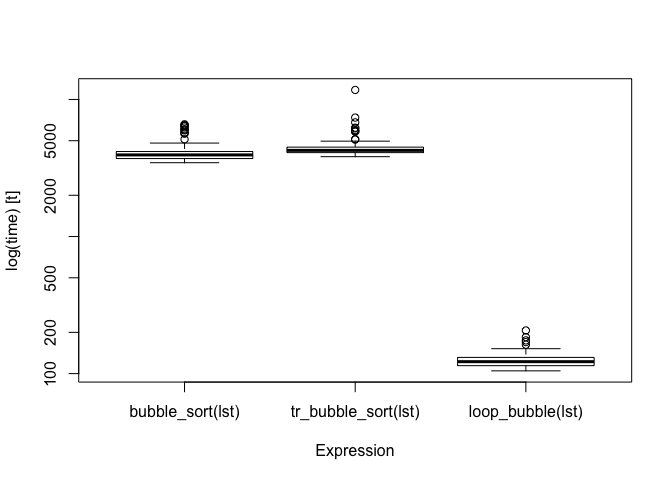
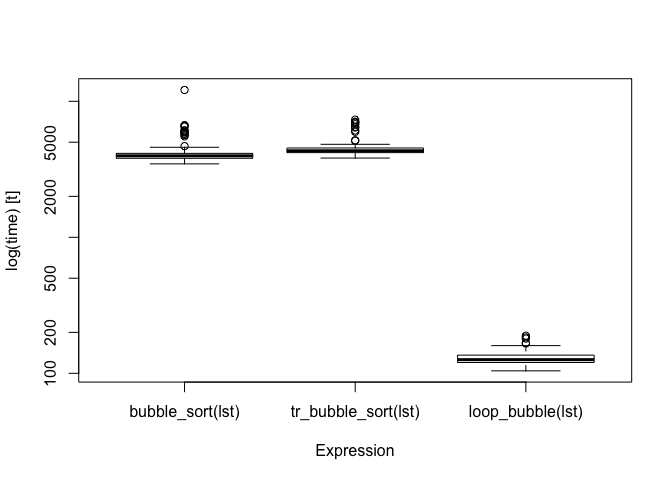
a little fixme

diff --git a/README.md b/README.md
@@ -140,9 +140,9 @@ bm <- microbenchmark::microbenchmark(factorial(n),
 bm
 #> Unit: microseconds
 #>               expr     min       lq      mean   median       uq      max
-#>       factorial(n) 502.353 592.2195 798.68890 676.7220 881.0735 4826.670
-#>    tr_factorial(n) 642.510 695.8220 773.12496 743.4500 776.2790 3023.561
-#>  loop_factorial(n)  48.411  50.1175  76.43362  51.3625  54.0435 2296.244
+#>       factorial(n) 510.170 548.6400 692.13391 593.0185 662.8700 5015.846
+#>    tr_factorial(n) 650.143 675.7145 741.53741 705.3390 732.8235 2867.557
+#>  loop_factorial(n)  47.601  48.6105  76.86726  49.2710  52.7560 2637.968
 #>  neval
 #>    100
 #>    100
@@ -245,17 +245,21 @@ bm <- microbenchmark::microbenchmark(llength(test_llist),
 bm
 #> Unit: microseconds
 #>                      expr     min       lq     mean   median       uq
-#>       llength(test_llist) 265.918 285.5995 366.3221 304.5285 339.3260
-#>    tr_llength(test_llist) 355.793 373.5675 463.0679 400.2200 429.5800
-#>  loop_llength(test_llist) 144.501 158.7770 220.5217 171.1740 189.5785
+#>       llength(test_llist) 270.776 285.2205 384.5874 300.1905 325.4885
+#>    tr_llength(test_llist) 357.037 374.4325 418.4112 387.9800 412.7885
+#>  loop_llength(test_llist) 144.618 154.0980 221.8522 160.4235 175.0040
 #>       max neval
-#>  4607.342   100
-#>  3056.753   100
-#>  4389.339   100
+#>  4886.636   100
+#>  2318.699   100
+#>  5466.565   100
 boxplot(bm)
 ```
 
 <img src="man/figures/README-unnamed-chunk-11-1.png" width="100%" />
+
+**FIXME:** The main reason for this is that the running time is
+dominated by the cost of `pmatch`. If I manage to get that faster, the
+iterative function might end being much faster here as well.
 
 More examples:
 
@@ -281,13 +285,13 @@ bm <- microbenchmark::microbenchmark(llcontains(lst, 1001),
 bm
 #> Unit: microseconds
 #>                      expr     min       lq     mean   median       uq
-#>     llcontains(lst, 1001) 258.625 265.2965 331.9641 270.0955 286.8210
-#>  tr_llcontains(lst, 1001) 361.643 367.0120 387.4455 372.1275 395.8610
-#>  loop_contains(lst, 1001) 196.441 206.9190 286.2056 210.2610 227.8175
+#>     llcontains(lst, 1001) 259.903 262.8160 343.9029 269.3025 276.7305
+#>  tr_llcontains(lst, 1001) 362.543 369.0980 412.5989 372.7685 388.0770
+#>  loop_contains(lst, 1001) 199.942 204.3275 238.1532 209.8665 216.5210
 #>       max neval
-#>  5324.857   100
-#>   622.783   100
-#>  2461.244   100
+#>  4959.340   100
+#>  3285.773   100
+#>  2746.243   100
 boxplot(bm)
 ```
 
@@ -401,14 +405,14 @@ bm <- microbenchmark::microbenchmark(bubble_sort(lst),
                                      loop_bubble(lst))
 bm
 #> Unit: microseconds
-#>                 expr      min       lq      mean   median       uq
-#>     bubble_sort(lst) 3455.177 3704.927 4142.7253 3938.028 4169.132
-#>  tr_bubble_sort(lst) 3823.526 4093.134 4485.9163 4251.283 4488.590
-#>     loop_bubble(lst)  104.768  114.279  125.2882  122.227  131.301
+#>                 expr      min        lq      mean   median        uq
+#>     bubble_sort(lst) 3466.611 3808.9600 4222.5333 3971.868 4139.7010
+#>  tr_bubble_sort(lst) 3823.465 4192.0190 4526.8456 4325.548 4535.4200
+#>     loop_bubble(lst)  104.267  120.0635  129.5123  126.008  136.0245
 #>        max neval
-#>   6587.043   100
-#>  11726.912   100
-#>    206.499   100
+#>  12112.025   100
+#>   7323.989   100
+#>    188.959   100
 boxplot(bm)
 ```
 
